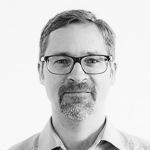
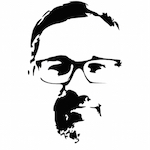
sketch image, retina

diff --git a/_sass/_layout.scss b/_sass/_layout.scss
@@ -12,12 +12,14 @@
 }
 
 .site-title {
+  font-size:$small-font-size;
   background-image: none;
 }
 
 .site-description {
   display: inline-block;
 }
+
 
 
 .site-nav {
@@ -33,6 +35,7 @@
   .site-title {
     display: inline-block;
     margin-right: 1em;
+    font-size: $base-font-size;
   }
 
   .site-nav {
@@ -44,8 +47,7 @@
 
   .page-link {
     font-family: $base-font-family;
-    font-size: $base-font-size * 1.5;
-    line-height:$base-line-height * 1.5;
+    font-size: $base-font-size + 6px;
     display: block;
     margin: $spacing-unit / 2 0px;
     padding: 0;
@@ -68,9 +70,12 @@
   margin: $spacing-unit auto;
   margin-top: 0;
   box-sizing: content-box;
-  background-image: url(/r/u400.jpg);
+  background-image: url(/r/u150.jpg);
 }
 
+.big {
+  font-size: $big-font-size;
+}
 
 .title-wrapper {
   margin-bottom: 2 * $spacing-unit;
@@ -108,6 +113,7 @@
     }
 
     .title {
+      font-size: $base-font-size;
       font-family: $title-font-family;
       font-weight: $title-font-weight;
       margin-right: $spacing-unit;
@@ -120,12 +126,8 @@
     margin: 0px;
     clear: both;
     float: left;
-    margin-bottom: $spacing-unit;
+    margin-top: $spacing-unit;
     height: 100%;
-
-    p:after {
-      margin:0;
-    }
 
     &::before {
       content: none;
@@ -228,10 +230,11 @@ li.image-grid .title {
 .meta, .page-content .meta {
   margin-bottom: $spacing-unit;
   font-family: $subtitle-font-family;
-  font-style:italic;
+  font-weight:lighter;
 }
 
 h1, .title {
+  font-size: $base-font-size;
   margin: 0;
   font-family: $title-font-family;
   font-weight: $title-font-weight;
@@ -239,17 +242,17 @@ h1, .title {
 
 
 .subtitle {
+  font-size: $base-font-size;
   font-family: $subtitle-font-family;
   margin: 0;
 }
 
-h1, h2, h3, h4, h5, h6 {
-  margin-top: 1.5*$spacing-unit;
+h1, h2, h3, h4 {
+  font-size: $base-font-size;
   font-family: $title-font-family;
   font-weight: $title-font-weight;
   text-align: center;
 }
-
 
 .w200 img, img.w200 {
   max-width: 200px;
@@ -349,6 +352,9 @@ figcaption, .figcaption {
 /* Twitter timeline */
 .page-content {
 
+  .followme {
+    margin-bottom: $spacing-unit;
+  }
 
   .twitter-timeline {
 
@@ -378,9 +384,6 @@ figcaption, .figcaption {
           }
         }
 
-        p:after {
-          margin:0;
-        }
 
         p.timePosted {
           display:none;
@@ -433,11 +436,6 @@ figcaption, .figcaption {
       }
     }
   }
-
-  .index .page-link {
-    font-size: $palm-base-font-size * 1.5;
-    line-height:$palm-base-line-height * 1.5;
-}
 
   .site-footer {
     line-height: $site-nav-height;
@@ -496,7 +494,7 @@ figcaption, .figcaption {
 @media (min--moz-device-pixel-ratio: 2), (-o-min-device-pixel-ratio: 2/1), (-webkit-min-device-pixel-ratio: 2), (min-device-pixel-ratio: 2) {
 
   .portrait {
-    background-image: url(/r/u400.jpg);
+    background-image: url(/r/u300.jpg);
   }
 
 }
